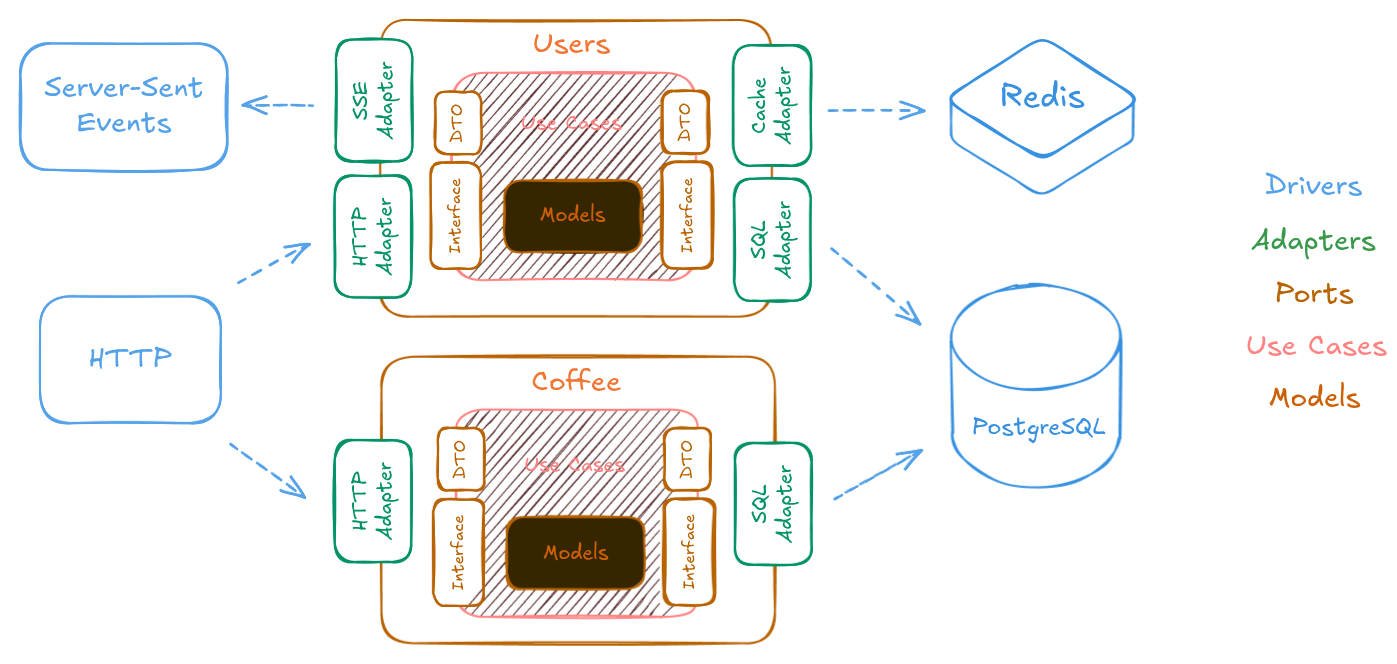
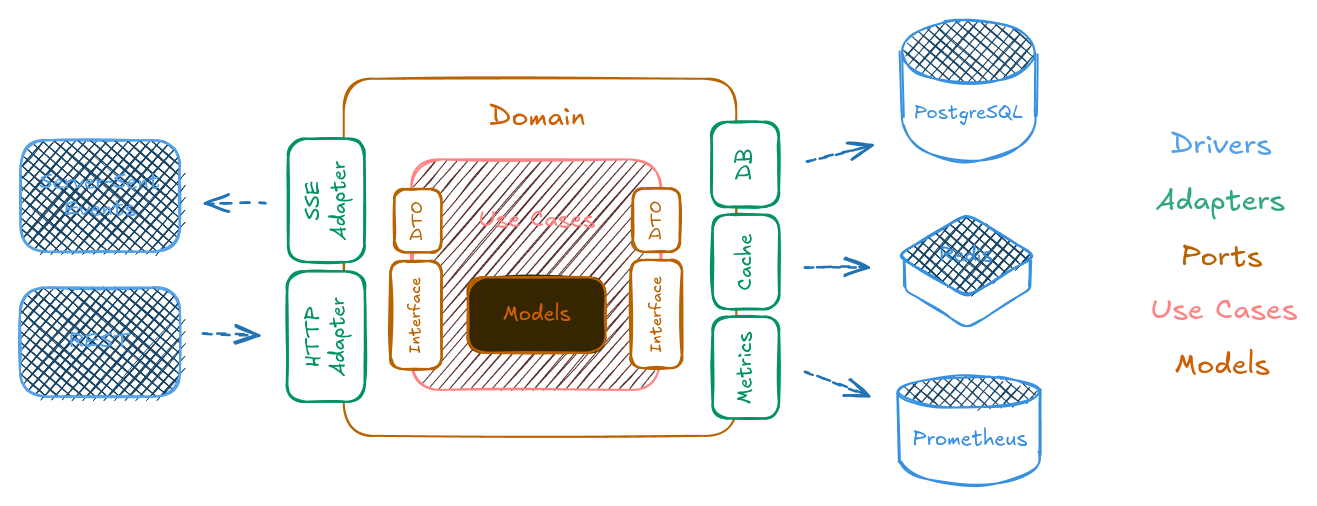
Change README.md scheme

diff --git a/README.md b/README.md
@@ -15,9 +15,9 @@ Contains CRUD operations for `Users`, `Coffee` and `Orders` services.
 
 ## Architecture
 
-Architecture designed according to the SOLID and GRASP principles.
+Layered architecture according to the SOLID principles.
 
-<img align="center" src="imgs/architecture.png" alt="scheme" width="680"/>
+<img align="center" src="imgs/architecture.png" alt="scheme" width="700"/>
 
 ## Run
 
